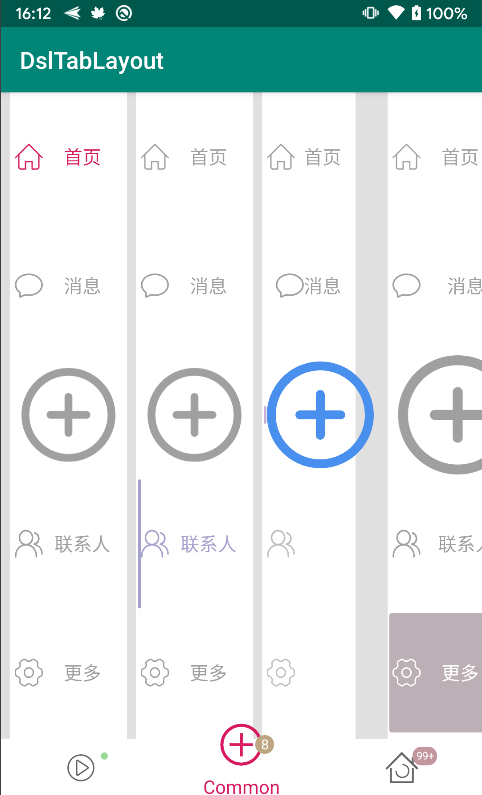
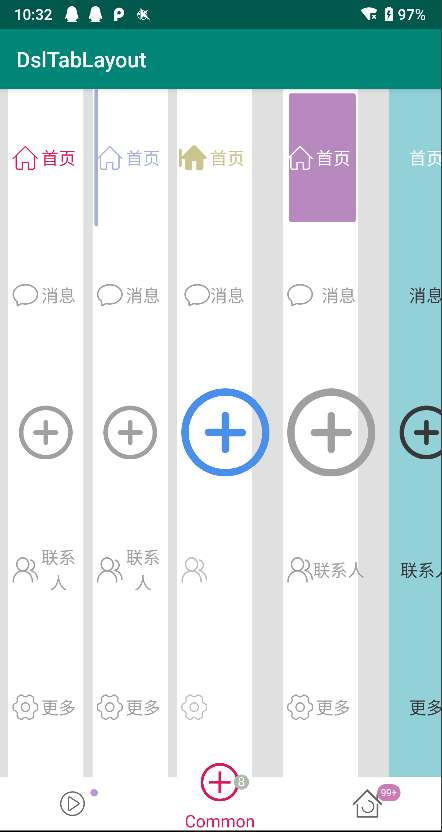
+ flash demo

diff --git a/Sample/src/main/java/com/angcyo/dsltablayout/demo/SlidingFragment.kt b/Sample/src/main/java/com/angcyo/dsltablayout/demo/SlidingFragment.kt
@@ -133,17 +133,6 @@ class SlidingFragment : BaseTabLayoutFragment() {
                 }
             }
 
-//            slidingItem {
-//                itemBindOverride = { itemHolder, _, _, _ ->
-//                    itemHolder.v<DslTabLayout>(R.id.tab_layout)?.apply {
-//                        addTabLayout(this)
-//                        tabIndicator.indicatorWidth = 10 * dpi
-//                        tabIndicator.indicatorEnableFlow = true
-//                        tabIndicator.indicatorStyle = DslTabIndicator.INDICATOR_STYLE_BOTTOM
-//                    }
-//                }
-//            }
-
             slidingItem {
                 itemBindOverride = { itemHolder, _, _, _ ->
                     itemHolder.v<DslTabLayout>(R.id.tab_layout)?.apply {
@@ -159,6 +148,20 @@ class SlidingFragment : BaseTabLayoutFragment() {
 
 
                         tabIndicator.indicatorStyle = DslTabIndicator.INDICATOR_STYLE_BOTTOM
+                    }
+                }
+            }
+
+            //闪现效果
+            slidingItem {
+                itemBindOverride = { itemHolder, _, _, _ ->
+                    itemHolder.v<DslTabLayout>(R.id.tab_layout)?.apply {
+                        addTabLayout(this)
+                        tabIndicator.indicatorDrawable = getDrawable(R.drawable.indicator_flash)
+                        tabIndicator.indicatorEnableFlash = true
+                        tabIndicator.indicatorEnableFlashClip = true
+                        tabIndicator.indicatorWidth = 28 * dpi
+                        tabIndicator.indicatorHeight = 5 * dpi
                     }
                 }
             }
